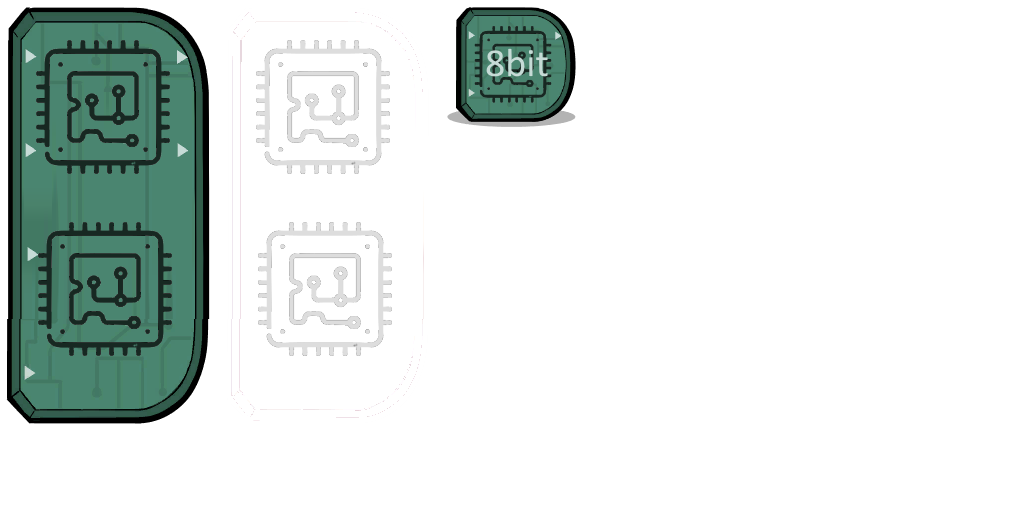
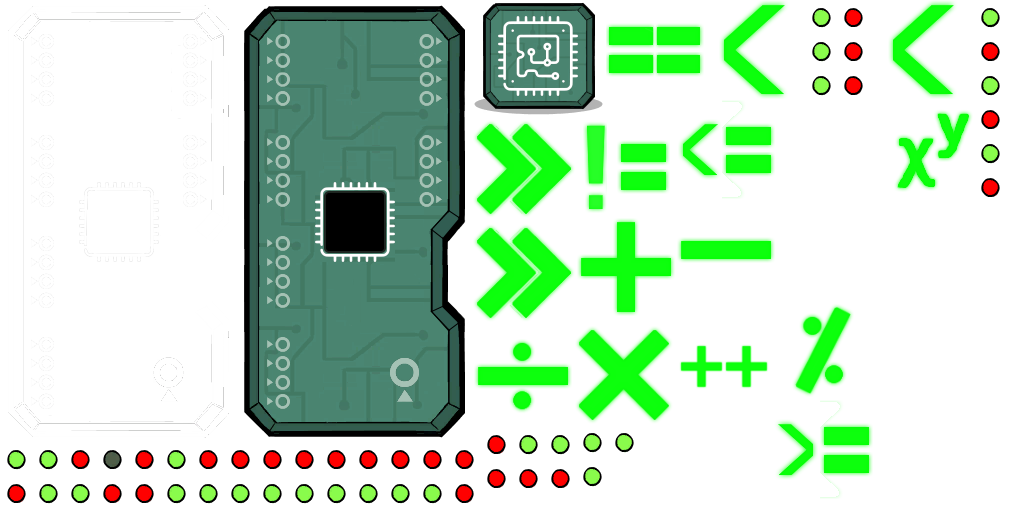
perf(default): Updated visuals, added thumbnail, corrected bugs

diff --git a/AutomationPlus/AluGate.cs b/AutomationPlus/AluGate.cs
@@ -10,17 +10,37 @@ using static LogicPorts;
 
 namespace AutomationPlus
 {
+    //enum AluGateOperators
+    //{
+    //    none = 0x0,
+    //    add = 0x1,
+    //    subtract = 0x2,
+    //    multiply = 0x4,
+    //    modulus = 0x5,
+    //    exp = 0x6,
+    //    divide = 0x8,
+    //    logicalBitRight = 0xD,
+    //    logicalBitLeft = 0xE, //(6) (==, !=, <=, >= , <, >)
+    //}
+
     enum AluGateOperators
     {
         none = 0x0,
         add = 0x1,
         subtract = 0x2,
-        multiply = 0x4,
-        modulus = 0x5,
-        exp = 0x6,
-        divide = 0x8,
-        logicalBitRight = 0xD,
-        logicalBitLeft = 0xE, //(6) (==, !=, <=, >= , <, >)
+        multiply = 0x3,
+        modulus = 0x4,
+        exp = 0x5,
+        divide = 0x6,
+        logicalBitRight = 0x7,
+        logicalBitLeft = 0x8,
+        equal = 0x9,
+        notEqual = 0xA,
+        lessThan = 0xB,
+        greaterThan = 0xC,
+        lessThanOrEqual = 0xD,
+        greaterThanOrEqual = 0xE,
+        plusPlus = 0xF,
     }
 
     class BinaryFormatter : IFormatProvider, ICustomFormatter
@@ -166,9 +186,9 @@ namespace AutomationPlus
         private KBatchedAnimController kbac;
 
         [Serialize]
-        private int lhs;
+        protected int lhs;
         [Serialize]
-        private int rhs;
+        protected int rhs;
         [Serialize]
         private AluGateOperators _inputOpCode;
  
@@ -346,7 +366,6 @@ namespace AutomationPlus
             {
                 return;
             }
-            this.ports.inputPortInfo[2].requiresConnection = false;
             var nw1 = Game.Instance.logicCircuitManager.GetNetworkForCell(this.ports.GetPortCell(AluGate.INPUT_PORT_ID1));
             var nw2 = Game.Instance.logicCircuitManager.GetNetworkForCell(this.ports.GetPortCell(AluGate.INPUT_PORT_ID2));
             var nwOut = Game.Instance.logicCircuitManager.GetNetworkForCell(this.ports.GetPortCell(AluGate.OP_PORT_ID));
@@ -402,22 +421,7 @@ namespace AutomationPlus
                 {
                     this.kbac.Play("on_0");
 
-                    ShowSymbolConditionally(nwOp, () => nwOp.OutputValue > 0, $"light{8}_bloom_green", $"light{8}_bloom_red");
-
-                    ShowSymbolConditionally(nwOut, () => LogicCircuitNetwork.IsBitActive(3, currentValue), $"light{12}_bloom_green", $"light{12}_bloom_red");
-                    ShowSymbolConditionally(nwOut, () => LogicCircuitNetwork.IsBitActive(2, currentValue), $"light{11}_bloom_green", $"light{11}_bloom_red");
-                    ShowSymbolConditionally(nwOut, () => LogicCircuitNetwork.IsBitActive(1, currentValue), $"light{10}_bloom_green", $"light{10}_bloom_red");
-                    ShowSymbolConditionally(nwOut, () => LogicCircuitNetwork.IsBitActive(0, currentValue), $"light{9}_bloom_green", $"light{9}_bloom_red");
-
-                    ShowSymbolConditionally(nw2, () => LogicCircuitNetwork.IsBitActive(3, rhs), $"light{7}_bloom_green", $"light{7}_bloom_red");
-                    ShowSymbolConditionally(nw2, () => LogicCircuitNetwork.IsBitActive(2, rhs), $"light{6}_bloom_green", $"light{6}_bloom_red");
-                    ShowSymbolConditionally(nw2, () => LogicCircuitNetwork.IsBitActive(1, rhs), $"light{5}_bloom_green", $"light{5}_bloom_red");
-                    ShowSymbolConditionally(nw2, () => LogicCircuitNetwork.IsBitActive(0, rhs), $"light{4}_bloom_green", $"light{4}_bloom_red");
-
-                    ShowSymbolConditionally(nw1, () => LogicCircuitNetwork.IsBitActive(3, lhs), $"light{3}_bloom_green", $"light{3}_bloom_red");
-                    ShowSymbolConditionally(nw1, () => LogicCircuitNetwork.IsBitActive(2, lhs), $"light{2}_bloom_green", $"light{2}_bloom_red");
-                    ShowSymbolConditionally(nw1, () => LogicCircuitNetwork.IsBitActive(1, lhs), $"light{1}_bloom_green", $"light{1}_bloom_red");
-                    ShowSymbolConditionally(nw1, () => LogicCircuitNetwork.IsBitActive(0, lhs), $"light{0}_bloom_green", $"light{0}_bloom_red");
+                    ToggleBlooms();
 
                     DisplayOperator();
 
@@ -431,6 +435,30 @@ namespace AutomationPlus
 
         }
 
+        protected virtual void ToggleBlooms()
+        {
+            var nw1 = Game.Instance.logicCircuitManager.GetNetworkForCell(this.ports.GetPortCell(AluGate.INPUT_PORT_ID1));
+            var nw2 = Game.Instance.logicCircuitManager.GetNetworkForCell(this.ports.GetPortCell(AluGate.INPUT_PORT_ID2));
+            var nwOp = Game.Instance.logicCircuitManager.GetNetworkForCell(this.ports.GetPortCell(AluGate.OP_PORT_ID));
+            var nwOut = Game.Instance.logicCircuitManager.GetNetworkForCell(this.ports.GetPortCell(AluGate.OUTPUT_PORT_ID));
+            ShowSymbolConditionally(nwOp, () => nwOp.OutputValue > 0, $"light{8}_bloom_green", $"light{8}_bloom_red");
+
+            ShowSymbolConditionally(nwOut, () => LogicCircuitNetwork.IsBitActive(3, currentValue), $"light{12}_bloom_green", $"light{12}_bloom_red");
+            ShowSymbolConditionally(nwOut, () => LogicCircuitNetwork.IsBitActive(2, currentValue), $"light{11}_bloom_green", $"light{11}_bloom_red");
+            ShowSymbolConditionally(nwOut, () => LogicCircuitNetwork.IsBitActive(1, currentValue), $"light{10}_bloom_green", $"light{10}_bloom_red");
+            ShowSymbolConditionally(nwOut, () => LogicCircuitNetwork.IsBitActive(0, currentValue), $"light{9}_bloom_green", $"light{9}_bloom_red");
+
+            ShowSymbolConditionally(nw2, () => LogicCircuitNetwork.IsBitActive(3, rhs), $"light{7}_bloom_green", $"light{7}_bloom_red");
+            ShowSymbolConditionally(nw2, () => LogicCircuitNetwork.IsBitActive(2, rhs), $"light{6}_bloom_green", $"light{6}_bloom_red");
+            ShowSymbolConditionally(nw2, () => LogicCircuitNetwork.IsBitActive(1, rhs), $"light{5}_bloom_green", $"light{5}_bloom_red");
+            ShowSymbolConditionally(nw2, () => LogicCircuitNetwork.IsBitActive(0, rhs), $"light{4}_bloom_green", $"light{4}_bloom_red");
+
+            ShowSymbolConditionally(nw1, () => LogicCircuitNetwork.IsBitActive(3, lhs), $"light{3}_bloom_green", $"light{3}_bloom_red");
+            ShowSymbolConditionally(nw1, () => LogicCircuitNetwork.IsBitActive(2, lhs), $"light{2}_bloom_green", $"light{2}_bloom_red");
+            ShowSymbolConditionally(nw1, () => LogicCircuitNetwork.IsBitActive(1, lhs), $"light{1}_bloom_green", $"light{1}_bloom_red");
+            ShowSymbolConditionally(nw1, () => LogicCircuitNetwork.IsBitActive(0, lhs), $"light{0}_bloom_green", $"light{0}_bloom_red");
+        }
+
         private void DisplayOperator()
         {
             ToggleOperator(_inputOpCode == AluGateOperators.add, "op_add");
@@ -441,6 +469,14 @@ namespace AutomationPlus
             ToggleOperator(_inputOpCode == AluGateOperators.modulus, "op_mod");
             ToggleOperator(_inputOpCode == AluGateOperators.multiply, "op_mul");
             ToggleOperator(_inputOpCode == AluGateOperators.subtract, "op_minus");
+            ToggleOperator(_inputOpCode == AluGateOperators.lessThan, "op_less");
+            ToggleOperator(_inputOpCode == AluGateOperators.lessThanOrEqual, "op_lessThanOrEqual");
+            ToggleOperator(_inputOpCode == AluGateOperators.greaterThan, "op_more");
+            ToggleOperator(_inputOpCode == AluGateOperators.greaterThanOrEqual, "op_moreThanOrEqual");
+            ToggleOperator(_inputOpCode == AluGateOperators.plusPlus, "op_addadd");
+            ToggleOperator(_inputOpCode == AluGateOperators.equal, "op_equality");
+            ToggleOperator(_inputOpCode == AluGateOperators.notEqual, "op_not_equality");
+
         }
 
         private void ToggleOperator(
@@ -505,6 +541,27 @@ namespace AutomationPlus
                 case AluGateOperators.logicalBitLeft:
                     currentValue = lhs << rhs;
                     break;
+                case AluGateOperators.equal:
+                    currentValue = lhs == rhs ? 1 : 0;
+                    break;
+                case AluGateOperators.notEqual:
+                    currentValue = lhs != rhs ? 1 : 0;
+                    break;
+                case AluGateOperators.lessThan:
+                    currentValue = lhs < rhs ? 1 : 0;
+                    break;
+                case AluGateOperators.lessThanOrEqual:
+                    currentValue = lhs <= rhs ? 1 : 0;
+                    break;
+                case AluGateOperators.greaterThan:
+                    currentValue = lhs > rhs ? 1 : 0;
+                    break;
+                case AluGateOperators.greaterThanOrEqual:
+                    currentValue = lhs >= rhs ? 1 : 0;
+                    break;
+                case AluGateOperators.plusPlus:
+                    currentValue = lhs + 1;
+                    break;
                 case AluGateOperators.none:
                 default:
                     break;
@@ -519,7 +576,7 @@ namespace AutomationPlus
 
 
 
-        private void ShowSymbolConditionally(
+        protected void ShowSymbolConditionally(
             object nw,
           Func<bool> active,
           KAnimHashedString ifTrue,

diff --git a/AutomationPlus/Alu8Gate.cs b/AutomationPlus/Alu8Gate.cs
@@ -24,7 +24,7 @@ namespace AutomationPlus
             var val1 = base.GetInputValue1();
             var val2 = this.ports?.GetInputValue(Alu8Gate.INPUT_PORT_ID1B) ?? 0;
 
-            return (val1 << 3) | val2;
+            return (val1 << 4) | val2;
 
         }
 
@@ -33,7 +33,7 @@ namespace AutomationPlus
             var val1 = base.GetInputValue2();
             var val2 = this.ports?.GetInputValue(Alu8Gate.INPUT_PORT_ID2B) ?? 0;
 
-            return (val1 << 3) | val2;
+            return (val1 << 4) | val2;
 
         }
 
@@ -45,8 +45,8 @@ namespace AutomationPlus
 
         protected override void UpdateValue()
         {
-            var val1 = this.currentValue >> 3;
-            var val2 = this.currentValue | 0xf;
+            var val1 = this.currentValue >> 4;
+            var val2 = this.currentValue & 0xf;
             this.GetComponent<LogicPorts>().SendSignal(AluGate.OUTPUT_PORT_ID, val1);
             this.GetComponent<LogicPorts>().SendSignal(Alu8Gate.OUTPUT_PORT_IDB, val2);
         }
@@ -57,6 +57,52 @@ namespace AutomationPlus
                 || portId == Alu8Gate.INPUT_PORT_ID1B
                 || portId == Alu8Gate.INPUT_PORT_ID2B
                 || portId == Alu8Gate.OUTPUT_PORT_IDB;
+        }
+
+        protected override void ToggleBlooms()
+        {
+            var nw1 = Game.Instance.logicCircuitManager.GetNetworkForCell(this.ports.GetPortCell(Alu8Gate.INPUT_PORT_ID1));
+            var nw1b = Game.Instance.logicCircuitManager.GetNetworkForCell(this.ports.GetPortCell(Alu8Gate.INPUT_PORT_ID1B));
+            var nw2 = Game.Instance.logicCircuitManager.GetNetworkForCell(this.ports.GetPortCell(Alu8Gate.INPUT_PORT_ID2));
+            var nw2b = Game.Instance.logicCircuitManager.GetNetworkForCell(this.ports.GetPortCell(Alu8Gate.INPUT_PORT_ID2B));
+            var nwOp = Game.Instance.logicCircuitManager.GetNetworkForCell(this.ports.GetPortCell(Alu8Gate.OP_PORT_ID));
+            var nwOut = Game.Instance.logicCircuitManager.GetNetworkForCell(this.ports.GetPortCell(Alu8Gate.OUTPUT_PORT_ID));
+            var nwOutb = Game.Instance.logicCircuitManager.GetNetworkForCell(this.ports.GetPortCell(Alu8Gate.OUTPUT_PORT_IDB));
+            ShowSymbolConditionally(nwOp, () => nwOp.OutputValue > 0, $"light{24}_bloom_green", $"light{24}_bloom_red");
+
+
+            //16-19 outb
+            ShowSymbolConditionally(nwOutb, () => LogicCircuitNetwork.IsBitActive(3, nwOutb.OutputValue), $"light{19}_bloom_green", $"light{19}_bloom_red");
+            ShowSymbolConditionally(nwOutb, () => LogicCircuitNetwork.IsBitActive(2, nwOutb.OutputValue), $"light{18}_bloom_green", $"light{18}_bloom_red");
+            ShowSymbolConditionally(nwOutb, () => LogicCircuitNetwork.IsBitActive(1, nwOutb.OutputValue), $"light{17}_bloom_green", $"light{17}_bloom_red");
+            ShowSymbolConditionally(nwOutb, () => LogicCircuitNetwork.IsBitActive(0, nwOutb.OutputValue), $"light{16}_bloom_green", $"light{16}_bloom_red");
+            // 20-23 out
+            ShowSymbolConditionally(nwOut, () => LogicCircuitNetwork.IsBitActive(3, nwOut.OutputValue), $"light{23}_bloom_green", $"light{23}_bloom_red");
+            ShowSymbolConditionally(nwOut, () => LogicCircuitNetwork.IsBitActive(2, nwOut.OutputValue), $"light{22}_bloom_green", $"light{22}_bloom_red");
+            ShowSymbolConditionally(nwOut, () => LogicCircuitNetwork.IsBitActive(1, nwOut.OutputValue), $"light{21}_bloom_green", $"light{21}_bloom_red");
+            ShowSymbolConditionally(nwOut, () => LogicCircuitNetwork.IsBitActive(0, nwOut.OutputValue), $"light{20}_bloom_green", $"light{20}_bloom_red");
+
+            //in1b 0-3
+            ShowSymbolConditionally(nw1b, () => LogicCircuitNetwork.IsBitActive(3, nw1b.OutputValue), $"light{3}_bloom_green", $"light{3}_bloom_red");
+            ShowSymbolConditionally(nw1b, () => LogicCircuitNetwork.IsBitActive(2, nw1b.OutputValue), $"light{2}_bloom_green", $"light{2}_bloom_red");
+            ShowSymbolConditionally(nw1b, () => LogicCircuitNetwork.IsBitActive(1, nw1b.OutputValue), $"light{1}_bloom_green", $"light{1}_bloom_red");
+            ShowSymbolConditionally(nw1b, () => LogicCircuitNetwork.IsBitActive(0, nw1b.OutputValue), $"light{0}_bloom_green", $"light{0}_bloom_red");
+            //in1 4-7
+            ShowSymbolConditionally(nw1, () => LogicCircuitNetwork.IsBitActive(3, nw1.OutputValue), $"light{7}_bloom_green", $"light{7}_bloom_red");
+            ShowSymbolConditionally(nw1, () => LogicCircuitNetwork.IsBitActive(2, nw1.OutputValue), $"light{6}_bloom_green", $"light{6}_bloom_red");
+            ShowSymbolConditionally(nw1, () => LogicCircuitNetwork.IsBitActive(1, nw1.OutputValue), $"light{5}_bloom_green", $"light{5}_bloom_red");
+            ShowSymbolConditionally(nw1, () => LogicCircuitNetwork.IsBitActive(0, nw1.OutputValue), $"light{4}_bloom_green", $"light{4}_bloom_red");
+
+            //in2b 8-11
+            ShowSymbolConditionally(nw2b, () => LogicCircuitNetwork.IsBitActive(3, nw2b.OutputValue), $"light{11}_bloom_green", $"light{11}_bloom_red");
+            ShowSymbolConditionally(nw2b, () => LogicCircuitNetwork.IsBitActive(2, nw2b.OutputValue), $"light{10}_bloom_green", $"light{10}_bloom_red");
+            ShowSymbolConditionally(nw2b, () => LogicCircuitNetwork.IsBitActive(1, nw2b.OutputValue), $"light{9}_bloom_green", $"light{9}_bloom_red");
+            ShowSymbolConditionally(nw2b, () => LogicCircuitNetwork.IsBitActive(0, nw2b.OutputValue), $"light{8}_bloom_green", $"light{8}_bloom_red");
+            //in2 12-15
+            ShowSymbolConditionally(nw2, () => LogicCircuitNetwork.IsBitActive(3, nw2.OutputValue), $"light{15}_bloom_green", $"light{15}_bloom_red");
+            ShowSymbolConditionally(nw2, () => LogicCircuitNetwork.IsBitActive(2, nw2.OutputValue), $"light{14}_bloom_green", $"light{14}_bloom_red");
+            ShowSymbolConditionally(nw2, () => LogicCircuitNetwork.IsBitActive(1, nw2.OutputValue), $"light{13}_bloom_green", $"light{13}_bloom_red");
+            ShowSymbolConditionally(nw2, () => LogicCircuitNetwork.IsBitActive(0, nw2.OutputValue), $"light{12}_bloom_green", $"light{12}_bloom_red");
         }
     }
 }

diff --git a/AutomationPlus/Alu8GateConfig.cs b/AutomationPlus/Alu8GateConfig.cs
@@ -35,7 +35,7 @@ namespace AutomationPlus
                 LogicPorts.Port.RibbonInputPort(AluGate.INPUT_PORT_ID1, new CellOffset(0, 2), (string) Alu8GateStrings.INPUT_PORT1, (string) Alu8GateStrings.INPUT_PORT_ACTIVE, (string) Alu8GateStrings.INPUT_PORT_INACTIVE , true, true),
                 LogicPorts.Port.RibbonInputPort(Alu8Gate.INPUT_PORT_ID2B, new CellOffset(0, 1), (string) Alu8GateStrings.INPUT_PORT2B, (string) Alu8GateStrings.INPUT_PORT_ACTIVE, (string) Alu8GateStrings.INPUT_PORT_INACTIVE , true, true),
                 LogicPorts.Port.RibbonInputPort(AluGate.INPUT_PORT_ID2, new CellOffset(0, 0), (string) Alu8GateStrings.INPUT_PORT2, (string) Alu8GateStrings.INPUT_PORT_ACTIVE, (string) Alu8GateStrings.INPUT_PORT_INACTIVE , true, true),
-                new LogicPorts.Port(AluGate.OP_PORT_ID, new CellOffset(1, 0), Alu8GateStrings.OP_PORT_DESCRIPTION, Alu8GateStrings.OP_CODE_ACTIVE, Alu8GateStrings.OP_CODE_INACTIVE, true, LogicPortSpriteType.ControlInput, true),
+                new LogicPorts.Port(AluGate.OP_PORT_ID, new CellOffset(1, 0), Alu8GateStrings.OP_PORT_DESCRIPTION, Alu8GateStrings.OP_CODE_ACTIVE, Alu8GateStrings.OP_CODE_INACTIVE, false, LogicPortSpriteType.ControlInput, true),
             };
             buildingDef.LogicOutputPorts = new List<LogicPorts.Port>()    {
                 LogicPorts.Port.RibbonOutputPort(Alu8Gate.OUTPUT_PORT_IDB, new CellOffset(1, 3), Alu8GateStrings.OUTPUT_NAMEB, Alu8GateStrings.OUTPUT_ACTIVE, Alu8GateStrings.OUTPUT_INACTIVE, true, true),

diff --git a/AutomationPlus/PnrgGate.cs b/AutomationPlus/PnrgGate.cs
@@ -15,7 +15,8 @@ namespace AutomationPlus
         private CopyBuildingSettings copyBuildingSettings;
         public static readonly HashedString INPUT_PORT_ID = new HashedString("PnrgGateInput");
         public static readonly HashedString OUTPUT_PORT_ID = new HashedString("PnrgGateOutput");
-        private System.Random _random = new System.Random();
+        private static System.Random _random = new System.Random();
+        private bool hasRendered = false;
 
         private static readonly EventSystem.IntraObjectHandler<PnrgGate> OnLogicValueChangedDelegate = new EventSystem.IntraObjectHandler<PnrgGate>((component, data) => component.OnLogicValueChanged(data));
         //private static readonly EventSystem.IntraObjectHandler<PnrgGate> OnCopySettingsDelegate = new EventSystem.IntraObjectHandler<PnrgGate>(((component, data) => component.OnCopySettings(data)));
@@ -93,7 +94,7 @@ namespace AutomationPlus
                     setValue = i;
                 }
             }
-            if (changed)
+            if (changed || !hasRendered)
             {
                 UpdateVisuals();
             }
@@ -101,6 +102,7 @@ namespace AutomationPlus
 
         public void UpdateVisuals()
         {
+            hasRendered = true;
             LogicCircuitNetwork inputNetwork = this.GetInputNetwork();
             LogicCircuitNetwork outputNetwork = this.GetOutputNetwork();
             if (inputNetwork != null || outputNetwork != null)

diff --git a/AutomationPlus/AluGateConfig.cs b/AutomationPlus/AluGateConfig.cs
@@ -32,7 +32,7 @@ namespace AutomationPlus
             buildingDef.AlwaysOperational = true;
             buildingDef.LogicInputPorts = new List<LogicPorts.Port>()   {
                 LogicPorts.Port.RibbonInputPort(AluGate.INPUT_PORT_ID1, new CellOffset(0, 1), (string) AluGateStrings.INPUT_PORT1, (string) AluGateStrings.INPUT_PORT_ACTIVE, (string) AluGateStrings.INPUT_PORT_INACTIVE , true, true),
-                LogicPorts.Port.RibbonInputPort(AluGate.INPUT_PORT_ID2, new CellOffset(0, 0), (string) AluGateStrings.INPUT_PORT2, (string) AluGateStrings.INPUT_PORT_ACTIVE, (string) AluGateStrings.INPUT_PORT_INACTIVE , true, true),
+                LogicPorts.Port.RibbonInputPort(AluGate.INPUT_PORT_ID2, new CellOffset(0, 0), (string) AluGateStrings.INPUT_PORT2, (string) AluGateStrings.INPUT_PORT_ACTIVE, (string) AluGateStrings.INPUT_PORT_INACTIVE , false, true),
                 new LogicPorts.Port(AluGate.OP_PORT_ID, new CellOffset(1, 1), AluGateStrings.OP_PORT_DESCRIPTION, AluGateStrings.OP_CODE_ACTIVE, AluGateStrings.OP_CODE_INACTIVE, false, LogicPortSpriteType.ControlInput, true),
             };
             buildingDef.LogicOutputPorts = new List<LogicPorts.Port>()    {

diff --git a/AutomationPlus/AluGateStrings.cs b/AutomationPlus/AluGateStrings.cs
@@ -13,13 +13,20 @@ namespace AutomationPlus
         public static LocString DESC = (LocString)$@"The ALU can perform multiple operations on the inputs.
 Operator Codes:   
 add = 0x1 (0001)
-subtract = 0x2 (0010),
-multiply = 0x4 (0100),
-modulus = 0x5 (0101),
-exp = 0x6 (0110),
-divide = 0x8 (1000),
-logicalBitRight = 0xD (1101),
-logicalBitLeft = 0xE, (1110)
+subtract = 0x2 (0010)
+multiply = 0x3 (0011)
+modulus = 0x4 (0100)
+exp = 0x5 (0101)
+divide = 0x6 (0110)
+logicalBitRight = 0x7 (0111)
+logicalBitLeft = 0x8 (1000)
+equal = 0x9 (1001)
+notEqual = 0xA (1010)
+lessThan = 0xB (1011)
+greaterThan = 0xC (1100)
+lessThanOrEqual = 0xD (1101)
+greaterThanOrEqual = 0xE (1110)
+plusPlus = 0xF (1111)
 
 Signed numbers when enabled sets the ALU into using a twos complement binary number system. When enabled, the first bit when active {UI.FormatAsAutomationState("active", UI.AutomationState.Active)} signifies a negative number.";
 

diff --git a/AutomationPlus/AluGateSideScreen.cs b/AutomationPlus/AluGateSideScreen.cs
@@ -20,6 +20,13 @@ namespace AutomationPlus
             { AluGateOperators.exp ,             "Exponent" },
             { AluGateOperators.logicalBitLeft ,  "Bit Shift Left" },
             {  AluGateOperators.logicalBitRight ,"Bit Shift Right"},
+            {  AluGateOperators.equal ,"Equal"},
+            {  AluGateOperators.notEqual ,"Not Equal"},
+            {  AluGateOperators.lessThan ,"Less than"},
+            {  AluGateOperators.lessThanOrEqual ,"Less than or equal"},
+            {  AluGateOperators.greaterThan ,"Greater than"},
+            {  AluGateOperators.greaterThanOrEqual ,"Greater than or equal"},
+            {  AluGateOperators.plusPlus ,"Increment by one"},
         };
         private AluGate targetAluGate;
         public AluGateSideScreen()

diff --git a/AutomationPlus/DisplayAdaptor.cs b/AutomationPlus/DisplayAdaptor.cs
@@ -186,7 +186,7 @@ namespace AutomationPlus
             var displayMap = GetDisplayMap(IsHexMode);
             if (!displayMap.ContainsKey(value))
             {
-                value = 12;
+                value = IsHexMode? 15: 12;
             }
 
             return displayMap[value];
